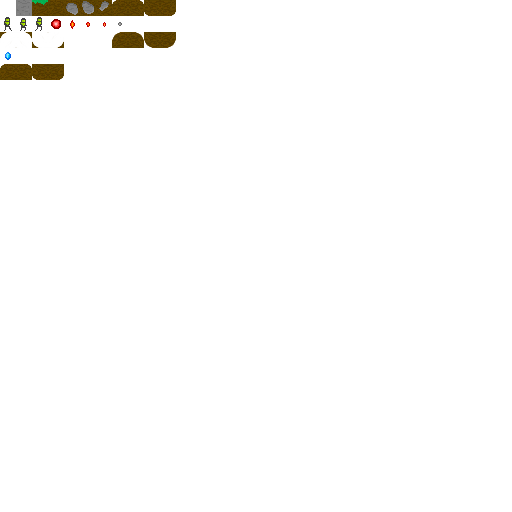
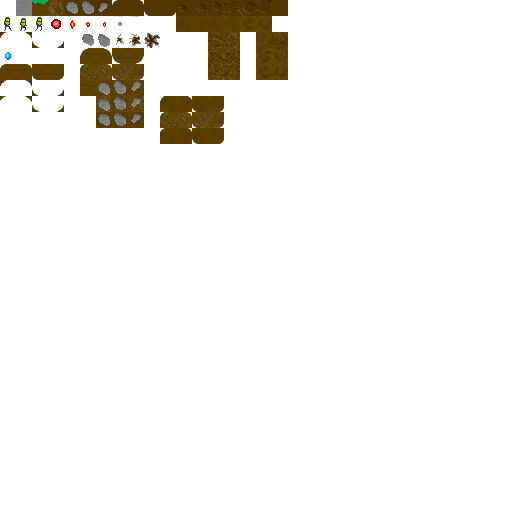
Break blocks

diff --git a/src/net/fybertech/ld29/GridChunk.java b/src/net/fybertech/ld29/GridChunk.java
@@ -11,10 +11,14 @@ public class GridChunk
 	int gridY;
 	byte[] tiles;
 	byte[] data;
+	int initialRenderList = -1;
 	int renderList = -1;
 	int paddingRenderList = -1;
 	boolean dirty = true;
 	
+	public static final int DIRTTILECOUNT = 7;
+	
+	boolean firstGeneration = true;
 	
 	public GridChunk()
 	{
@@ -23,7 +27,8 @@ public class GridChunk
 		
 		for (int n = 0; n < CHUNKWIDTH*CHUNKHEIGHT; n++) 
 		{
-			tiles[n] = 3;
+			tiles[n] = 17;
+			if (Math.random() > 0.5) tiles[n] = (byte)((Math.random() * DIRTTILECOUNT) + 11);
 			if (Math.random() > 0.98) tiles[n] = (byte) (4 + (int)(Math.random() * 3));
 			
 		}
@@ -83,6 +88,8 @@ public class GridChunk
 				
 				
 			}
+			
+			firstGeneration = false;
 		}
 		
 		int gems = 200;
@@ -96,6 +103,8 @@ public class GridChunk
 		
 		
 		renderList = GL11.glGenLists(1);
+		initialRenderList = GL11.glGenLists(1);
+		
 		
 	}
 	
@@ -139,6 +148,12 @@ public class GridChunk
 		this.data[(y * CHUNKWIDTH) + x] = (byte) (data & 0xFF);
 	}
 	
+	public int getData(int x, int y)
+	{
+		if (x < 0 || y < 0 || x >= CHUNKWIDTH || y >= CHUNKHEIGHT) return 0;			
+		return this.data[(y * CHUNKWIDTH) + x] & 0xFF;
+	}
+	
 	public void notifyTileUpdate(int x, int y)
 	{
 		int thisTile = getTile(x, y);
@@ -153,23 +168,25 @@ public class GridChunk
 		boolean isUp = tileUp > 0 && tileUp < 32;
 		boolean isDown = tileDown > 0 && tileDown < 32;
 		
-		if (thisTile > 0 && thisTile < 32) 
+		if (thisTile > 0 && thisTile < 32 && firstGeneration) 
 		{ 
 			setData(x, y, 0); 
-			if (!isLeft && !isUp) { setTileDirect(x, y,7); } //setData(x - 1, y, 0); setData(x, y - 1, 0);}
-			if (!isRight && !isUp) { setTileDirect(x, y,8); } //setData(x + 1, y, 0); setData(x, y - 1, 0); }
-			if (!isLeft && !isDown) { setTileDirect(x, y,9); } //setData(x - 1, y, 0); setData(x, y + 1, 0); }
-			if (!isRight && !isDown) { setTileDirect(x, y,10); } // setData(x + 1, y, 0); setData(x, y + 1, 0); }
+			if (!isLeft && !isUp) { setTileDirect(x, y, 7); } //setData(x - 1, y, 0); setData(x, y - 1, 0);}
+			if (!isRight && !isUp) { setTileDirect(x, y, 8); } //setData(x + 1, y, 0); setData(x, y - 1, 0); }
+			if (!isLeft && !isDown) { setTileDirect(x, y, 9); } //setData(x - 1, y, 0); setData(x, y + 1, 0); }
+			if (!isRight && !isDown) { setTileDirect(x, y, 10); } // setData(x + 1, y, 0); setData(x, y + 1, 0); }
 			return; 
 		}
 		
-		int data = 0;
+		int data = 0;		
 		
-		
-		if (isLeft && isUp) data |= 1;
-		if (isRight && isUp) data |= 2;
-		if (isLeft && isDown) data |= 4;
-		if (isRight && isDown) data |= 8;
+		if (thisTile == 0)
+		{			
+			if (isLeft && isUp) data |= 1;		
+			if (isRight && isUp) data |= 2;
+			if (isLeft && isDown) data |= 4;
+			if (isRight && isDown) data |= 8;
+		}
 		
 		//System.out.println(data);
 		setData(x, y, data);
@@ -180,7 +197,7 @@ public class GridChunk
 	/**
 	 * 
 	 */
-	public void renderToList()
+	public void renderToList(int renderListNum)
 	{
 		
 		// Pre-render border blocks
@@ -196,7 +213,11 @@ public class GridChunk
 			{
 				for (int x = -padding; x < CHUNKWIDTH + padding; x++)
 				{					
-					if (x < 0 || y < 0 || x >= CHUNKWIDTH || y >= CHUNKHEIGHT) renderTileQuad(x, y, 3);
+					//int tilenum = (int)((Math.random() * DIRTTILECOUNT) + 11);
+					int tilenum = 17;
+					if (Math.random() > 0.5) tilenum = (byte)((Math.random() * DIRTTILECOUNT) + 11);
+					if (Math.random() > 0.98) tilenum = (byte) (4 + (int)(Math.random() * 3));
+					if (x < 0 || y < 0 || x >= CHUNKWIDTH || y >= CHUNKHEIGHT) renderTileQuad(x, y, tilenum);
 				}
 			}
 			GL11.glEnd();	
@@ -205,9 +226,11 @@ public class GridChunk
 		
 		
 
+		
 		// Render main map
 		
-		GL11.glNewList(renderList,GL11.GL_COMPILE);
+		GL11.glNewList(renderListNum, GL11.GL_COMPILE);
+			
 		
 		GL11.glCallList(paddingRenderList);
 		
@@ -225,10 +248,20 @@ public class GridChunk
 				
 				// Render rounded corners
 				int tiledata = data[(y * CHUNKWIDTH) + x] & 0xFF;
-				if ((tiledata & 1) > 0) renderTileQuad(x, y, 64);
-				if ((tiledata & 2) > 0) renderTileQuad(x, y, 65);
-				if ((tiledata & 4) > 0) renderTileQuad(x, y, 66);
-				if ((tiledata & 8) > 0) renderTileQuad(x, y, 67);
+				
+				if (tilenum == 0)
+				{
+					if ((tiledata & 1) > 0) renderTileQuad(x, y, 64);
+					if ((tiledata & 2) > 0) renderTileQuad(x, y, 65);
+					if ((tiledata & 4) > 0) renderTileQuad(x, y, 66);
+					if ((tiledata & 8) > 0) renderTileQuad(x, y, 67);
+				}
+				else
+				{
+					if (tiledata == 1) renderTileQuad(x, y, 71);
+					if (tiledata == 2) renderTileQuad(x, y, 72);
+					if (tiledata == 3) renderTileQuad(x, y, 73);
+				}
 				
 				
 			}
@@ -240,6 +273,7 @@ public class GridChunk
 		
 		
 		GL11.glEndList();
+		
 		
 		this.dirty = false;
 	}

diff --git a/src/net/fybertech/ld29/LD29.java b/src/net/fybertech/ld29/LD29.java
@@ -120,7 +120,8 @@ public class LD29
 		textureAtlas.bind();
 		
 		gridChunk = new GridChunk();
-		gridChunk.renderToList();
+		gridChunk.renderToList(gridChunk.initialRenderList);
+		gridChunk.renderToList(gridChunk.renderList);
 		
 		player = new Entity(gridChunk, 32);
 		player.xPos = 32;
@@ -206,7 +207,7 @@ public class LD29
 			
 			if (Display.wasResized()) sizeDisplay();
 			
-			if (gridChunk.dirty) gridChunk.renderToList();
+			if (gridChunk.dirty) gridChunk.renderToList(gridChunk.renderList);
 						
 			SoundStore.get().poll(0);
 			
@@ -254,12 +255,13 @@ public class LD29
 		if (Keyboard.isKeyDown(Keyboard.KEY_SPACE))
 		{
 			if (player.onGround) { player.yVel = -100; player.jumping = true; player.jumpcounter = 0; }
+			//else if (!player.jumping) { player.jumping = true; player.jumpcounter = 500; }
 			else if (player.jumping) 
 			{ 
 				int delta = deltaTime;
 				player.jumpcounter += deltaTime;
 				//if (player.jumpcounter < 500) player.yVel -= 300 * (delta / 1000.0f);
-				if (player.jumpcounter > 500) player.jumping = false;
+				//if (player.jumpcounter > 500) player.jumping = false;
 			}			 
 		}
 		else player.jumping = false;
@@ -368,7 +370,7 @@ public class LD29
 			GL11.glColor3f(0.25f,  0.25f,  0.25f);
 			GL11.glScalef(scaleFactor, scaleFactor, scaleFactor);
 			GL11.glTranslatef(scrollX * scaleFactor,  scrollY * scaleFactor,  0);		
-			GL11.glCallList(gridChunk.renderList);
+			GL11.glCallList(gridChunk.initialRenderList);
 			GL11.glPopMatrix();
 			
 			GL11.glPushMatrix();
@@ -376,7 +378,7 @@ public class LD29
 			GL11.glColor3f(0.5f,  0.5f,  0.5f);
 			GL11.glScalef(scaleFactor, scaleFactor, scaleFactor);
 			GL11.glTranslatef(scrollX * scaleFactor,  scrollY * scaleFactor,  0);		
-			GL11.glCallList(gridChunk.renderList);
+			GL11.glCallList(gridChunk.initialRenderList);
 			GL11.glPopMatrix();
 		}
 

diff --git a/src/net/fybertech/ld29/Entity.java b/src/net/fybertech/ld29/Entity.java
@@ -266,11 +266,11 @@ public class Entity
 		
 		//yVel += 200 * delta;
 		
-		if (Keyboard.isKeyDown(Keyboard.KEY_W)) yVel -= 400 * delta;
+		if (!jumping && Keyboard.isKeyDown(Keyboard.KEY_SPACE)) yVel -= 400 * delta;
 		else 
 		{
 			//if (!onGround) 
-			if (jumping) yVel += 100 * delta;
+			if (jumping && jumpcounter < 500) yVel += 100 * delta;
 			else yVel += 300 * delta;
 		}
 		
@@ -371,9 +371,9 @@ public class Entity
 	
 	public void tick()
 	{
-		if (Keyboard.isKeyDown(Keyboard.KEY_W))
+		if (!jumping && Keyboard.isKeyDown(Keyboard.KEY_SPACE))
 		{
-			LD29.instance.newentities.add(new Particle(xPos, yPos));			
+			LD29.instance.newentities.add(new Particle(xPos + (facing == 1 ? -1 : 0), yPos));			
 			float pitch = (float)(Math.random() * 0.20) + 1f;
 			pitch = 0.75f - (this.yVel / 2000) + (float)(Math.random() * 0.10);
 			LD29.soundThrust.playAsSoundEffect(pitch, 0.25f, false);

diff --git a/src/net/fybertech/ld29/EntityBullet.java b/src/net/fybertech/ld29/EntityBullet.java
@@ -70,7 +70,28 @@ public class EntityBullet extends Entity
 			destroyEntity = true;
 			hitHead = true;
 			LD29.soundShothit.playAsSoundEffect((float)(Math.random() * 0.25) + 0.35f,  0.2f,  false);
-			System.out.println("HIT");
+			//System.out.println("HIT");
+			
+			for (Vector2i v : intercepts)
+			{
+				int tile = gridChunk.getTile(v.x,  v.y);
+				if (tile > 0 && tile < 32)
+				{					
+					BoundingBox bb = bbFromGridPos(v.x, v.y);
+					BoundingBox bbb = new BoundingBox(xPos, yPos, xPos + 15f, yPos + 15f);
+					if (boxOverlaps(bbb, bb))
+					{			
+						System.out.println("SDFDSF");
+						int data = gridChunk.getData(v.x, v.y);
+						data++;
+						gridChunk.setData(v.x, v.y, data);
+						if (data > 3) gridChunk.setTile(v.x,  v.y,  0); 						
+						
+						gridChunk.dirty = true;
+						break;
+					}
+				}
+			}
 		}
 		
 		
